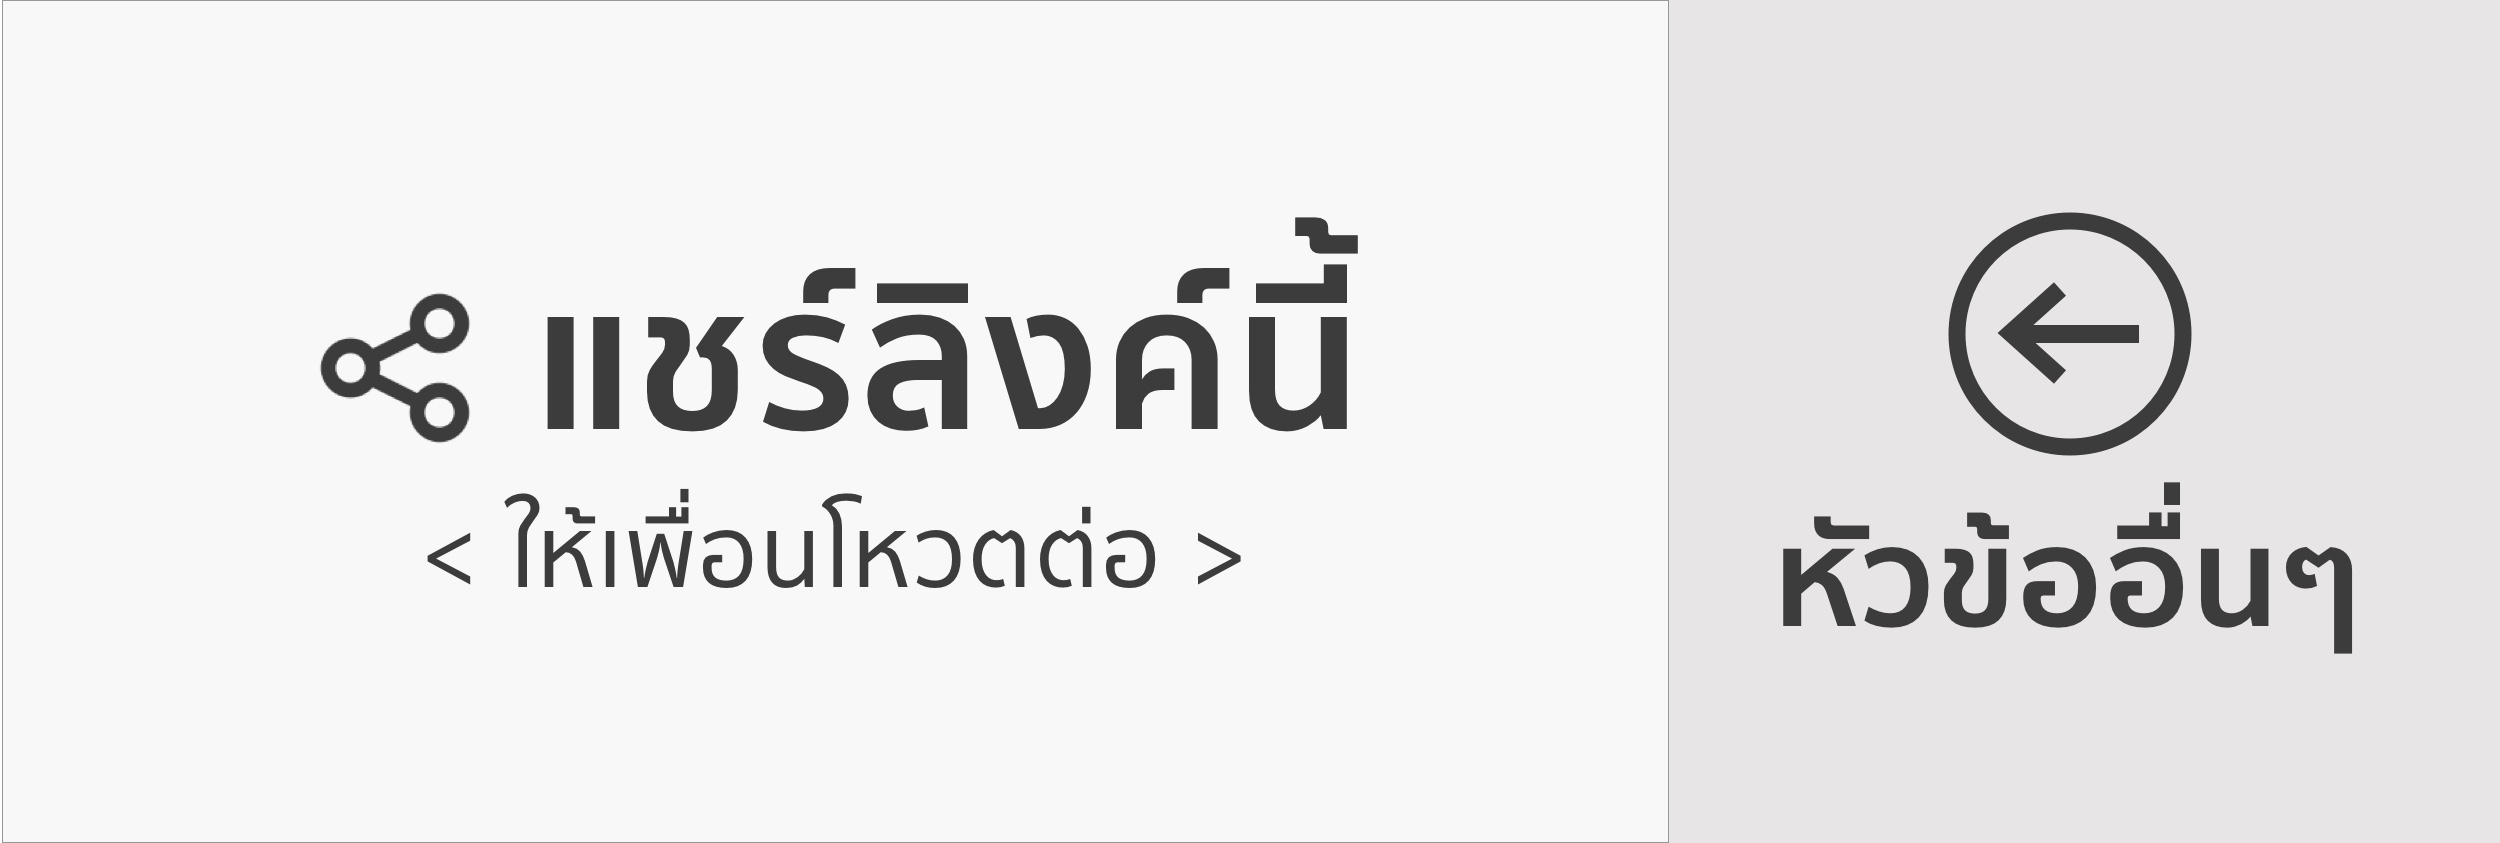
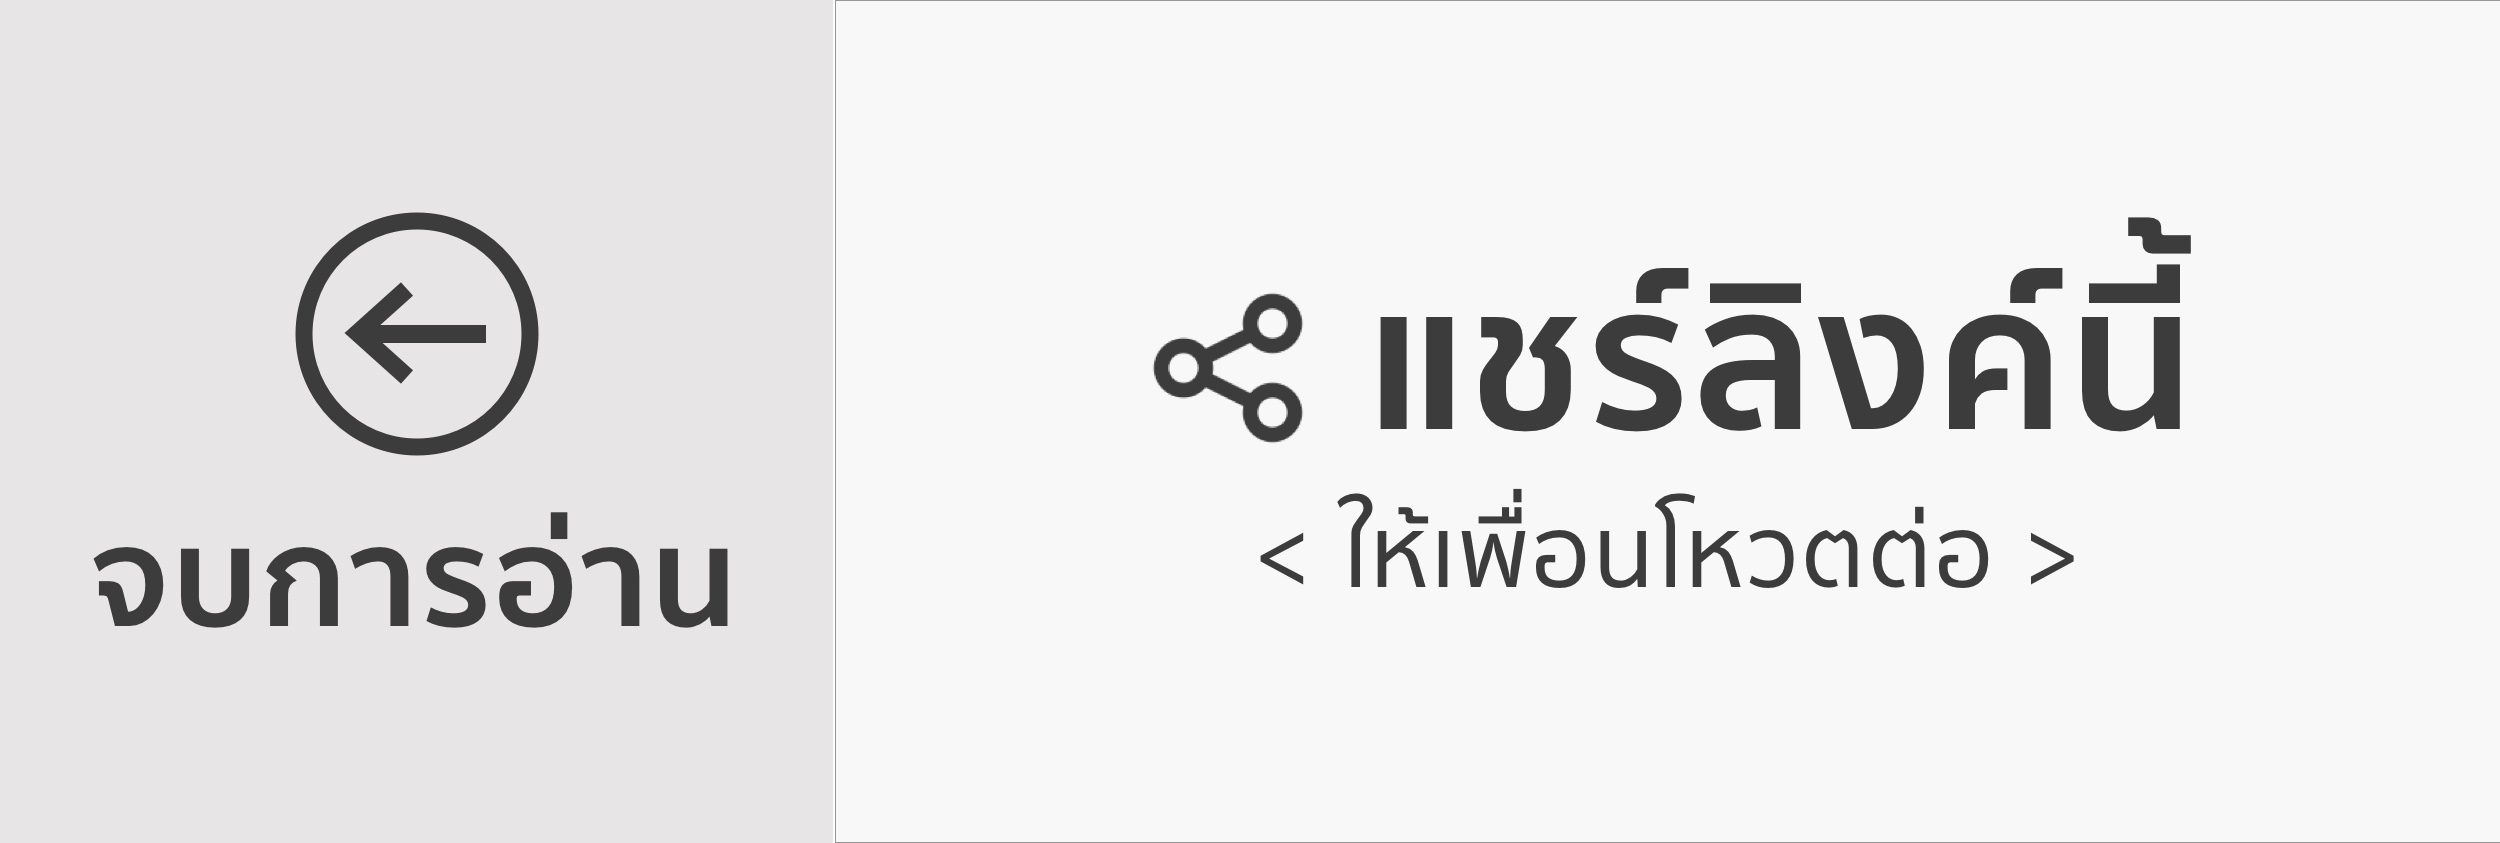
updated

Changed region(s): [[0.0936, 0.2467, 0.8736, 0.5552], [0.0312, 0.586, 0.9672, 0.7711], [0.0, 0.987, 0.0312, 1.0]]

diff --git a/dist/handler/intentHandler.js b/dist/handler/intentHandler.js
@@ -49,25 +49,31 @@ exports.intentHandler = function (message, source, replyToken) { return __awaite
                     case '': return [3 /*break*/, 1];
                     case 'ความรู้ด้านกฎหมาย': return [3 /*break*/, 2];
                     case 'ติดต่อเจ้าหน้าที่': return [3 /*break*/, 4];
-                    case 'โหวตเลย': return [3 /*break*/, 6];
-                    case 'อ่านคำให้การ': return [3 /*break*/, 8];
-                    case 'เขียนคำให้การ': return [3 /*break*/, 10];
-                    case 'อ่านความเห็นฝ่ายที่เห็นด้วย': return [3 /*break*/, 12];
-                    case 'อ่านความเห็นฝ่ายที่ไม่เห็นด้วย': return [3 /*break*/, 14];
-                    case 'ภาพรวมของเนื้อหา': return [3 /*break*/, 16];
-                    case 'ข้อมูลหลักฐานที่เกี่ยวข้อง': return [3 /*break*/, 18];
-                    case 'เสียงของคนที่เห็นด้วย': return [3 /*break*/, 20];
-                    case 'ย้อนกลับไปหน้า ความคิดเห็น': return [3 /*break*/, 22];
-                    case 'อ่านต่อ': return [3 /*break*/, 24];
-                    case 'ย้อนกลับไปอ่านข้ออื่น': return [3 /*break*/, 26];
-                    case 'ปิดเมนู': return [3 /*break*/, 28];
-                    case 'โหวตเห็นด้วย': return [3 /*break*/, 30];
-                    case 'โหวตไม่เห็นด้วย': return [3 /*break*/, 32];
-                    case 'ย้อนกลับไปหน้า drawer': return [3 /*break*/, 34];
-                    case 'เเชร์โพล์นี้': return [3 /*break*/, 35];
-                    case 'เลือกอ่านหัวข้ออื่น': return [3 /*break*/, 36];
+                    case 'ปัญหาโดนโกง': return [3 /*break*/, 6];
+                    case 'ปํญหาการกู้ยืม': return [3 /*break*/, 7];
+                    case 'ปัญหาการประกันตัว': return [3 /*break*/, 8];
+                    case 'ปัญหาอุบัติเหตุ': return [3 /*break*/, 9];
+                    case 'ศึกษากฎหมายใหม่': return [3 /*break*/, 10];
+                    case 'โหวตเลย': return [3 /*break*/, 11];
+                    case 'อ่านคำให้การ': return [3 /*break*/, 13];
+                    case 'เขียนคำให้การ': return [3 /*break*/, 15];
+                    case 'อ่านความเห็นฝ่ายที่เห็นด้วย': return [3 /*break*/, 17];
+                    case 'อ่านความเห็นฝ่ายที่ไม่เห็นด้วย': return [3 /*break*/, 19];
+                    case 'ภาพรวมของเนื้อหา': return [3 /*break*/, 21];
+                    case 'ข้อมูลหลักฐานที่เกี่ยวข้อง': return [3 /*break*/, 23];
+                    case 'เสียงของคนที่เห็นด้วย': return [3 /*break*/, 25];
+                    case 'ย้อนกลับไปหน้า ความคิดเห็น': return [3 /*break*/, 27];
+                    case 'อ่านต่อ': return [3 /*break*/, 29];
+                    case 'ย้อนกลับไปอ่านข้ออื่น': return [3 /*break*/, 31];
+                    case 'ย้อนกลับไปหน้าเเรก': return [3 /*break*/, 33];
+                    case 'ปิดเมนู': return [3 /*break*/, 35];
+                    case 'โหวตเห็นด้วย': return [3 /*break*/, 37];
+                    case 'โหวตไม่เห็นด้วย': return [3 /*break*/, 39];
+                    case 'ย้อนกลับไปหน้า drawer': return [3 /*break*/, 41];
+                    case 'เเชร์โพล์นี้': return [3 /*break*/, 42];
+                    case 'เลือกอ่านหัวข้ออื่น': return [3 /*break*/, 43];
                 }
-                return [3 /*break*/, 38];
+                return [3 /*break*/, 45];
             case 1: return [2 /*return*/, Handler.replyText(replyToken, "\u0E1E\u0E34\u0E21\u0E1E\u0E4C\u0E2D\u0E30\u0E44\u0E23\u0E21\u0E32\u0E2B\u0E19\u0E48\u0E2D\u0E22\u0E0B\u0E35\u0E48 ~~~")
                 // Opening action
             ];
@@ -80,78 +86,73 @@ exports.intentHandler = function (message, source, replyToken) { return __awaite
                 _b.sent();
                 return [2 /*return*/, Handler.replyText(replyToken, "\u0E40\u0E25\u0E37\u0E2D\u0E01\u0E40\u0E1A\u0E2D\u0E23\u0E4C\u0E15\u0E34\u0E14\u0E15\u0E48\u0E2D\u0E40\u0E08\u0E49\u0E32\u0E2B\u0E19\u0E49\u0E32\u0E17\u0E35\u0E48")
                     // Topic
-                    // case 'รัฐธรรมนูญปี60':
-                    //   return Handler.replyText(replyToken, [
-                    //     'สรุปการดีเบต แจ็ก หม่า vs อีลอน มัสก์ ในงานประชุม World AI / โดย ลงทุนแมน ลงทุนแมนรับรองว่าเป็นเรื่องน่าสนใจที่สุดในช่วงนี้ เมื่อไม่กี่ชั่วโมงที่ผ่านมา มีการคุยกัน'
-                    //   ])
-                    // // return Handler.drawerMenu(userId, replyToken)
-                    // case 'โรงไฟฟ้าถ่านหิน':
-                    //   return Handler.drawerMenu(userId, replyToken)
-                    // case 'เสรีภาพทางเพศ':
-                    //   return Handler.drawerMenu(userId, replyToken)
-                    // case 'ไมโครพลาสติค':
-                    //   return Handler.drawerMenu(userId, replyToken)
-                    // case 'การค้าเสรี':
-                    //   return Handler.drawerMenu(userId, replyToken)
-                    // Drawer
                 ];
-            case 6: return [4 /*yield*/, Richmenu.votePage(userId)];
-            case 7:
+            case 6: return [2 /*return*/, Handler.replyText(replyToken, "\u0E1B\u0E31\u0E0D\u0E2B\u0E32\u0E42\u0E14\u0E19\u0E42\u0E01\u0E07")];
+            case 7: return [2 /*return*/, Handler.replyText(replyToken, "\u0E1B\u0E4D\u0E0D\u0E2B\u0E32\u0E01\u0E32\u0E23\u0E01\u0E39\u0E49\u0E22\u0E37\u0E21")];
+            case 8: return [2 /*return*/, Handler.replyText(replyToken, "\u0E1B\u0E31\u0E0D\u0E2B\u0E32\u0E01\u0E32\u0E23\u0E1B\u0E23\u0E30\u0E01\u0E31\u0E19\u0E15\u0E31\u0E27")];
+            case 9: return [2 /*return*/, Handler.replyText(replyToken, "\u0E1B\u0E31\u0E0D\u0E2B\u0E32\u0E2D\u0E38\u0E1A\u0E31\u0E15\u0E34\u0E40\u0E2B\u0E15\u0E38")];
+            case 10: return [2 /*return*/, Handler.replyText(replyToken, "\u0E28\u0E36\u0E01\u0E29\u0E32\u0E01\u0E0E\u0E2B\u0E21\u0E32\u0E22\u0E43\u0E2B\u0E21\u0E48")
+                // Drawer
+            ];
+            case 11: return [4 /*yield*/, Richmenu.votePage(userId)];
+            case 12:
                 _b.sent();
                 return [2 /*return*/, Handler.replyText(replyToken, "OK")];
-            case 8: return [4 /*yield*/, Richmenu.listenChoose(userId)];
-            case 9: return [2 /*return*/, _b.sent()];
-            case 10: return [4 /*yield*/, Richmenu.removePage(userId)
+            case 13: return [4 /*yield*/, Richmenu.listenChoose(userId)];
+            case 14: return [2 /*return*/, _b.sent()];
+            case 15: return [4 /*yield*/, Richmenu.removePage(userId)
                 // Listen choose
             ];
-            case 11: return [2 /*return*/, _b.sent()
+            case 16: return [2 /*return*/, _b.sent()
                 // Listen choose
             ];
-            case 12: return [4 /*yield*/, Richmenu.listenAgree(userId)];
-            case 13: return [2 /*return*/, _b.sent()];
-            case 14: return [4 /*yield*/, Richmenu.listenAgree(userId)
+            case 17: return [4 /*yield*/, Richmenu.listenAgree(userId)];
+            case 18: return [2 /*return*/, _b.sent()];
+            case 19: return [4 /*yield*/, Richmenu.listenAgree(userId)
                 // Listen agree
             ];
-            case 15: return [2 /*return*/, _b.sent()
+            case 20: return [2 /*return*/, _b.sent()
                 // Listen agree
             ];
-            case 16: return [4 /*yield*/, Richmenu.readMore(userId)];
-            case 17: return [2 /*return*/, _b.sent()];
-            case 18: return [4 /*yield*/, Richmenu.readMore(userId)];
-            case 19: return [2 /*return*/, _b.sent()];
-            case 20: return [4 /*yield*/, Richmenu.readMore(userId)];
-            case 21: return [2 /*return*/, _b.sent()];
-            case 22: return [4 /*yield*/, Richmenu.listenChoose(userId)
+            case 21: return [4 /*yield*/, Richmenu.readMore(userId)];
+            case 22: return [2 /*return*/, _b.sent()];
+            case 23: return [4 /*yield*/, Richmenu.readMore(userId)];
+            case 24: return [2 /*return*/, _b.sent()];
+            case 25: return [4 /*yield*/, Richmenu.readMore(userId)];
+            case 26: return [2 /*return*/, _b.sent()];
+            case 27: return [4 /*yield*/, Richmenu.listenChoose(userId)
                 // Read more
             ];
-            case 23: return [2 /*return*/, _b.sent()
+            case 28: return [2 /*return*/, _b.sent()
                 // Read more
             ];
-            case 24: return [4 /*yield*/, Richmenu.back(userId)];
-            case 25: return [2 /*return*/, _b.sent()];
-            case 26: return [4 /*yield*/, Richmenu.listenAgree(userId)
+            case 29: return [4 /*yield*/, Richmenu.back(userId)];
+            case 30: return [2 /*return*/, _b.sent()];
+            case 31: return [4 /*yield*/, Richmenu.listenAgree(userId)
                 // Close ,Back or Share action
             ];
-            case 27: return [2 /*return*/, _b.sent()
+            case 32: return [2 /*return*/, _b.sent()
                 // Close ,Back or Share action
             ];
-            case 28: return [4 /*yield*/, Richmenu.removePage(userId)];
-            case 29: return [2 /*return*/, _b.sent()];
-            case 30: return [4 /*yield*/, Richmenu.sharePage(userId)];
-            case 31: return [2 /*return*/, _b.sent()];
-            case 32: return [4 /*yield*/, Richmenu.sharePage(userId)];
-            case 33: return [2 /*return*/, _b.sent()];
-            case 34: return [2 /*return*/, Handler.drawerMenu(userId, replyToken)];
-            case 35: return [2 /*return*/, Handler.sharePoint(replyToken)
+            case 33: return [4 /*yield*/, Richmenu.removePage(userId)];
+            case 34: return [2 /*return*/, _b.sent()];
+            case 35: return [4 /*yield*/, Richmenu.removePage(userId)];
+            case 36: return [2 /*return*/, _b.sent()];
+            case 37: return [4 /*yield*/, Richmenu.sharePage(userId)];
+            case 38: return [2 /*return*/, _b.sent()];
+            case 39: return [4 /*yield*/, Richmenu.sharePage(userId)];
+            case 40: return [2 /*return*/, _b.sent()];
+            case 41: return [2 /*return*/, Handler.drawerMenu(userId, replyToken)];
+            case 42: return [2 /*return*/, Handler.sharePoint(replyToken)
                 // return Handler.replyText(replyToken, `Redirect to SHARE pages.`)
             ];
-            case 36: return [4 /*yield*/, Richmenu.nextPage(userId)];
-            case 37:
+            case 43: return [4 /*yield*/, Richmenu.nextPage(userId)];
+            case 44:
                 _b.sent();
                 return [2 /*return*/, Handler.replyText(replyToken, "\u0E40\u0E25\u0E37\u0E2D\u0E01\u0E42\u0E2B\u0E27\u0E15 \u0E2B\u0E23\u0E37\u0E2D\u0E17\u0E33\u0E04\u0E27\u0E32\u0E21\u0E40\u0E02\u0E49\u0E32\u0E43\u0E08\u0E2B\u0E31\u0E27\u0E02\u0E49\u0E2D\u0E19\u0E35\u0E49 \u0E42\u0E14\u0E22\u0E01\u0E32\u0E23\u0E40\u0E25\u0E37\u0E2D\u0E01 \u0E2D\u0E48\u0E32\u0E19\u0E04\u0E33\u0E43\u0E2B\u0E49\u0E01\u0E32\u0E23")
                     //
                 ];
-            case 38: return [2 /*return*/, Handler.replyText(replyToken, "ECHO::" + message.text)];
+            case 45: return [2 /*return*/, Handler.replyText(replyToken, "ECHO::" + message.text)];
         }
     });
 }); };

diff --git a/src/handler/intentHandler.ts b/src/handler/intentHandler.ts
@@ -20,19 +20,21 @@ export const intentHandler = async (message, source, replyToken) => {
       return Handler.replyText(replyToken, `เลือกเบอร์ติดต่อเจ้าหน้าที่`)
 
     // Topic
-    // case 'รัฐธรรมนูญปี60':
-    //   return Handler.replyText(replyToken, [
-    //     'สรุปการดีเบต แจ็ก หม่า vs อีลอน มัสก์ ในงานประชุม World AI / โดย ลงทุนแมน ลงทุนแมนรับรองว่าเป็นเรื่องน่าสนใจที่สุดในช่วงนี้ เมื่อไม่กี่ชั่วโมงที่ผ่านมา มีการคุยกัน'
-    //   ])
-    // // return Handler.drawerMenu(userId, replyToken)
-    // case 'โรงไฟฟ้าถ่านหิน':
-    //   return Handler.drawerMenu(userId, replyToken)
-    // case 'เสรีภาพทางเพศ':
-    //   return Handler.drawerMenu(userId, replyToken)
-    // case 'ไมโครพลาสติค':
-    //   return Handler.drawerMenu(userId, replyToken)
-    // case 'การค้าเสรี':
-    //   return Handler.drawerMenu(userId, replyToken)
+    case 'ปัญหาโดนโกง':
+      await Richmenu.sharePage(userId)
+      return Handler.replyText(replyToken, `ปัญหาโดนโกง`)
+    case 'ปํญหาการกู้ยืม':
+      await Richmenu.sharePage(userId)
+      return Handler.replyText(replyToken, `ปํญหาการกู้ยืม`)
+    case 'ปัญหาการประกันตัว':
+      await Richmenu.sharePage(userId)
+      return Handler.replyText(replyToken, `ปัญหาการประกันตัว`)
+    case 'ปัญหาอุบัติเหตุ':
+      await Richmenu.sharePage(userId)
+      return Handler.replyText(replyToken, `ปัญหาอุบัติเหตุ`)
+    case 'ศึกษากฎหมายใหม่':
+      await Richmenu.sharePage(userId)
+      return Handler.replyText(replyToken, `ศึกษากฎหมายใหม่`)
 
     // Drawer
     case 'โหวตเลย':
@@ -66,6 +68,10 @@ export const intentHandler = async (message, source, replyToken) => {
       return await Richmenu.listenAgree(userId)
 
     // Close ,Back or Share action
+    case 'ย้อนกลับไปหน้าหัวข้อ':
+      return await Richmenu.topic(userId)
+    case 'ย้อนกลับไปหน้าเเรก':
+      return await Richmenu.removePage(userId)
     case 'ปิดเมนู':
       return await Richmenu.removePage(userId)
     case 'โหวตเห็นด้วย':
@@ -74,7 +80,7 @@ export const intentHandler = async (message, source, replyToken) => {
       return await Richmenu.sharePage(userId)
     case 'ย้อนกลับไปหน้า drawer':
       return Handler.drawerMenu(userId, replyToken)
-    case 'เเชร์โพล์นี้':
+    case 'เเชร์บทความนี้':
       return Handler.sharePoint(replyToken)
     // return Handler.replyText(replyToken, `Redirect to SHARE pages.`)
     case 'เลือกอ่านหัวข้ออื่น':

diff --git a/dist/rich_menu/uploader.js b/dist/rich_menu/uploader.js
@@ -1,7 +1,7 @@
 #!/usr/bin/env node
 "use strict";
 Object.defineProperty(exports, "__esModule", { value: true });
-var upload_action_drawer_guide_1 = require("./upload_action_drawer_guide");
+var upload_action_share_1 = require("./upload_action_share");
 var config = require('../../config.json');
 var program = require('commander');
 var line = require('@line/bot-sdk');
@@ -22,9 +22,9 @@ if (program.deleteAll) {
         }));
     });
 }
-var name = upload_action_drawer_guide_1.parcel.name, chatBarText = upload_action_drawer_guide_1.parcel.chatBarText, imagePath = upload_action_drawer_guide_1.parcel.imagePath, _a = upload_action_drawer_guide_1.parcel.richTemplate, templateWidth = _a.width, templateHeight = _a.height, 
+var name = upload_action_share_1.parcel.name, chatBarText = upload_action_share_1.parcel.chatBarText, imagePath = upload_action_share_1.parcel.imagePath, _a = upload_action_share_1.parcel.richTemplate, templateWidth = _a.width, templateHeight = _a.height, 
 // richGrid: { width, height },
-actions = upload_action_drawer_guide_1.parcel.actions;
+actions = upload_action_share_1.parcel.actions;
 housekeeping
     .then(function () {
     return client.createRichMenu({

diff --git a/dist/rich_menu/upload_action_share.js b/dist/rich_menu/upload_action_share.js
@@ -3,26 +3,26 @@ Object.defineProperty(exports, "__esModule", { value: true });
 exports.parcel = {
     imagePath: "./assets/action_share.jpg",
     name: 'Share',
-    chatBarText: 'ขอบคุณที่โหวต',
+    chatBarText: 'จบการอ่าน',
     richTemplate: {
         width: 2500,
         height: 843
     },
     actions: [
         {
-            text: 'เเชร์โพล์นี้',
+            text: 'ย้อนกลับไปหน้าหัวข้อ',
             type: 'message',
-            width: 1667,
+            width: 833,
             height: 843,
             x: 0,
             y: 0
         },
         {
-            text: 'เลือกอ่านหัวข้ออื่น',
+            text: 'เเชร์บทความนี้',
             type: 'message',
-            width: 833,
+            width: 1667,
             height: 843,
-            x: 1668,
+            x: 834,
             y: 0
         }
     ]

diff --git a/src/rich_menu/upload_action_share.ts b/src/rich_menu/upload_action_share.ts
@@ -1,26 +1,26 @@
 export const parcel = {
   imagePath: `./assets/action_share.jpg`, //change rich image
   name: 'Share', //set rich topic
-  chatBarText: 'ขอบคุณที่โหวต', // [ MAX 14 letter! ] set menu title
+  chatBarText: 'จบการอ่าน', // [ MAX 14 letter! ] set menu title
   richTemplate: {
     width: 2500,
     height: 843
   },
   actions: [
     {
-      text: 'เเชร์โพล์นี้',
+      text: 'ย้อนกลับไปหน้าหัวข้อ',
       type: 'message',
-      width: 1667,
+      width: 833,
       height: 843,
       x: 0,
       y: 0
     },
     {
-      text: 'เลือกอ่านหัวข้ออื่น',
+      text: 'เเชร์บทความนี้',
       type: 'message',
-      width: 833,
+      width: 1667,
       height: 843,
-      x: 1668,
+      x: 834,
       y: 0
     }
   ]

diff --git a/src/rich_menu/uploader.ts b/src/rich_menu/uploader.ts
@@ -1,5 +1,5 @@
 #!/usr/bin/env node
-import { parcel } from './upload_action_drawer_guide'
+import { parcel } from './upload_action_share'
 const config = require('../../config.json')
 const program = require('commander')
 const line = require('@line/bot-sdk')
